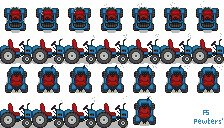
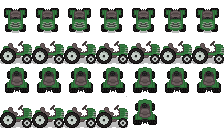
replace tractor sprite (#8)

diff --git a/TractorMod/release-notes.md b/TractorMod/release-notes.md
@@ -1,7 +1,7 @@
 # Release notes
 ## 4.0
 * The tractor garage is now sold by Robin, requires some building materials, and takes a few days for her to build. The price and whether resources are needed can be changed in `config.json`.
-* The tractor garage has a new look to match the game style thanks to [@Acerbicon](https://github.com/Acerbicon).
+* The tractor and garage have a new look to match the game style thanks to [@Zero-ui9](https://github.com/Zero-ui9) and [@Acerbicon](https://github.com/Acerbicon) respectively.
 * Simplified the `config.json`.
 * Added support for clearing dirt and breaking rocks with the pickaxe.
 * Removed summon-horse key (but kept summon-tractor key).
